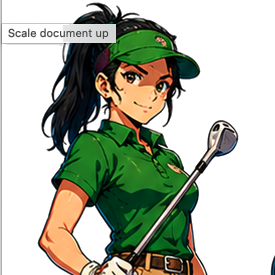
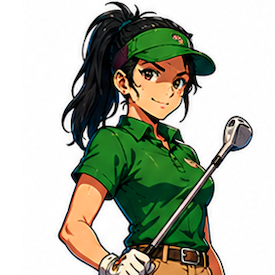
sick

diff --git a/lib/data/default_npc_leaders.dart b/lib/data/default_npc_leaders.dart
@@ -9,8 +9,8 @@ class _Npc {
   final String sprite;
 }
 
-const String _m = 'assets/golfers/male';
-const String _f = 'assets/golfers/female';
+const String _m = 'assets/golfers/male/transparent_bg';
+const String _f = 'assets/golfers/female/transparent_bg';
 
 // Course leaders — ranked by HCP, assigned to courses in sorted order
 const List<_Npc> _gymLeaders = [

diff --git a/lib/screens/courses_screen.dart b/lib/screens/courses_screen.dart
@@ -1132,9 +1132,9 @@ class _GolferAvatar extends StatelessWidget {
       height: size,
       decoration: BoxDecoration(
         shape: BoxShape.circle,
-        color: Colors.white,
+        color: (borderColor ?? const Color(0xFFFFD700)).withValues(alpha: 0.12),
         border: Border.all(
-          color: (borderColor ?? const Color(0xFFFFD700)).withValues(alpha: 0.6),
+          color: (borderColor ?? const Color(0xFFFFD700)).withValues(alpha: 0.5),
           width: 1.5,
         ),
       ),

diff --git a/lib/screens/home_screen.dart b/lib/screens/home_screen.dart
@@ -919,9 +919,9 @@ class _GolferSprite extends StatelessWidget {
       height: size,
       decoration: BoxDecoration(
         shape: BoxShape.circle,
-        color: Colors.white,
+        color: const Color(0xFFFFD700).withValues(alpha: 0.12),
         border: Border.all(
-          color: const Color(0xFFFFD700).withValues(alpha: 0.6),
+          color: const Color(0xFFFFD700).withValues(alpha: 0.5),
           width: 1.5,
         ),
       ),

diff --git a/lib/screens/team_select_screen.dart b/lib/screens/team_select_screen.dart
@@ -251,8 +251,8 @@ class _LeaderSprite extends StatelessWidget {
       height: 40,
       decoration: BoxDecoration(
         shape: BoxShape.circle,
-        color: Colors.white,
-        border: Border.all(color: color.withValues(alpha: 0.6), width: 1.5),
+        color: color.withValues(alpha: 0.12),
+        border: Border.all(color: color.withValues(alpha: 0.5), width: 1.5),
       ),
       clipBehavior: Clip.antiAlias,
       child: sprite != null